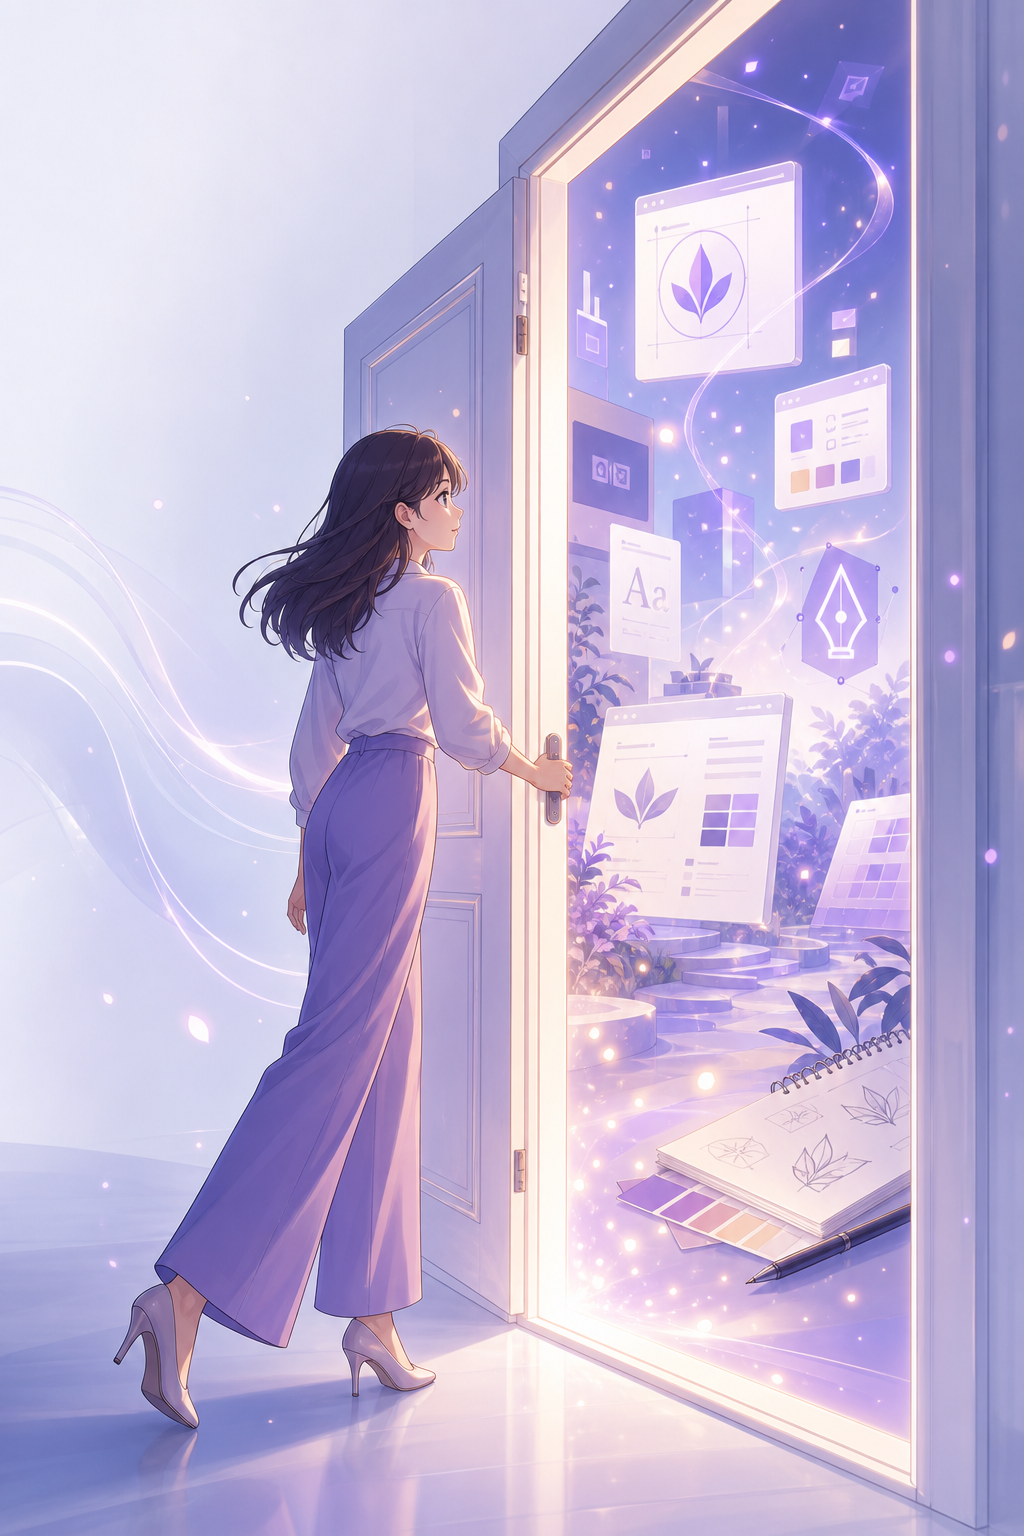
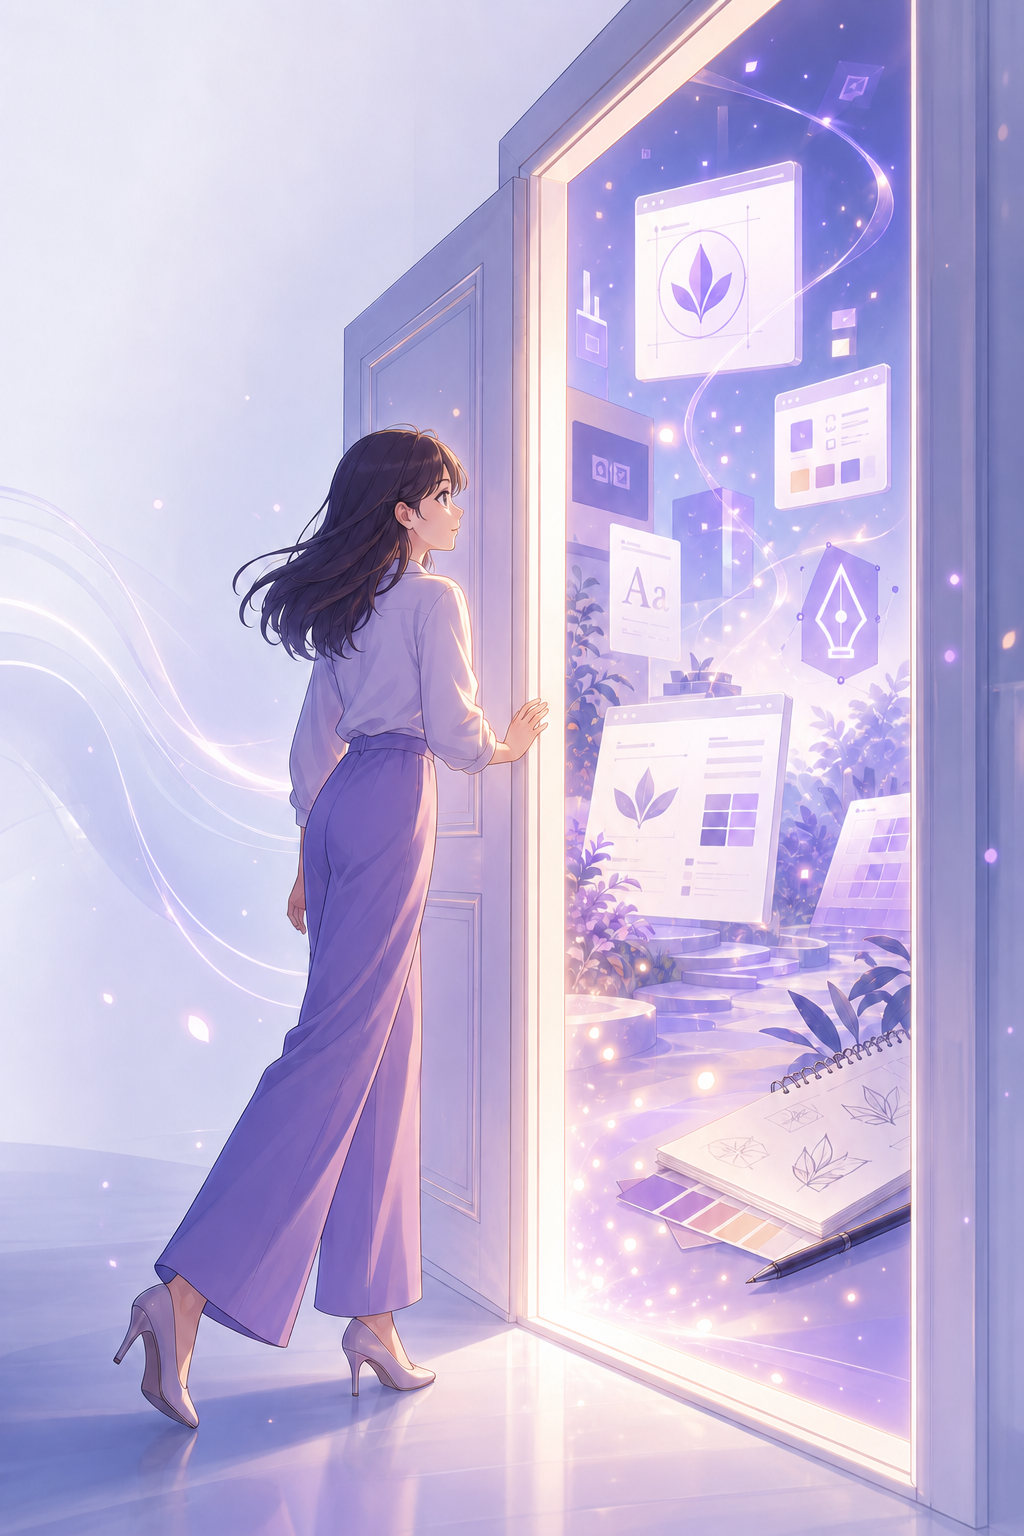
Add files via upload
Update hero image and improve menu animations

diff --git a/styles.css b/styles.css
@@ -29,6 +29,8 @@ body {
   font-family: Tajawal, Inter, system-ui, -apple-system, BlinkMacSystemFont, "Segoe UI", sans-serif;
   letter-spacing: 0;
   overflow-x: hidden;
+  -webkit-font-smoothing: antialiased;
+  text-rendering: optimizeLegibility;
 }
 
 html[lang="en"] body {
@@ -37,6 +39,14 @@ html[lang="en"] body {
 
 body.menu-open {
   overflow: hidden;
+}
+
+body.menu-open::before {
+  content: "";
+  position: fixed;
+  inset: 0;
+  z-index: 18;
+  background: rgba(11, 42, 85, 0.08);
 }
 
 a {
@@ -108,7 +118,9 @@ textarea {
   align-items: center;
   gap: 26px;
   border-bottom: 1px solid var(--line);
-  transition: 0.25s ease;
+  transform: translateZ(0);
+  transition: padding 0.25s ease, border-color 0.25s ease, border-radius 0.25s ease, background-color 0.25s ease, box-shadow 0.25s ease;
+  will-change: padding, box-shadow;
 }
 
 .site-header.is-scrolled .navbar {
@@ -381,7 +393,9 @@ h1 {
   min-height: 520px;
   object-fit: cover;
   object-position: center;
-  transform: scale(1.02);
+  backface-visibility: hidden;
+  transform: translate3d(0, 0, 0) scale(1.02);
+  will-change: transform;
   animation: soft-rise 5.5s ease-in-out infinite alternate;
 }
 
@@ -1260,13 +1274,16 @@ h1 {
 
 .reveal {
   opacity: 0;
-  transform: translateY(24px);
-  transition: opacity 0.7s ease, transform 0.7s ease;
+  backface-visibility: hidden;
+  transform: translate3d(0, 18px, 0);
+  transition: opacity 0.55s cubic-bezier(0.22, 1, 0.36, 1), transform 0.55s cubic-bezier(0.22, 1, 0.36, 1);
+  will-change: opacity, transform;
 }
 
 .reveal.is-visible {
   opacity: 1;
-  transform: translateY(0);
+  transform: translate3d(0, 0, 0);
+  will-change: auto;
 }
 
 @keyframes intro-out {
@@ -1286,8 +1303,8 @@ h1 {
 }
 
 @keyframes soft-rise {
-  from { transform: scale(1.02) translateY(0); }
-  to { transform: scale(1.055) translateY(-10px); }
+  from { transform: translate3d(0, 0, 0) scale(1.02); }
+  to { transform: translate3d(0, -8px, 0) scale(1.04); }
 }
 
 @media (max-width: 1120px) {
@@ -1303,6 +1320,7 @@ h1 {
   .nav-panel,
   .nav-actions {
     position: fixed;
+    z-index: 30;
     left: 4vw;
     right: 4vw;
     display: none;
@@ -1459,6 +1477,24 @@ h1 {
 
   .choice-art img {
     min-height: 320px;
+    animation: none;
+    transform: translate3d(0, 0, 0) scale(1.01);
+  }
+
+  .site-header.is-scrolled .navbar,
+  .nav-panel,
+  .nav-actions,
+  .choice-card,
+  .mini-card,
+  .soft-card,
+  .package-card,
+  .step,
+  .contact-form,
+  .cta-box,
+  .offer-preview,
+  .offer-card-large,
+  .project-link {
+    backdrop-filter: blur(8px);
   }
 
   .package-card.featured {

diff --git a/app.js b/app.js
@@ -231,20 +231,53 @@ const header = document.querySelector(".site-header");
 const setHeaderState = () => {
   header.classList.toggle("is-scrolled", window.scrollY > 10);
 };
+let headerScrollTicking = false;
+
+const requestHeaderState = () => {
+  if (headerScrollTicking) return;
+  headerScrollTicking = true;
+  window.requestAnimationFrame(() => {
+    setHeaderState();
+    headerScrollTicking = false;
+  });
+};
+
 setHeaderState();
-window.addEventListener("scroll", setHeaderState, { passive: true });
+window.addEventListener("scroll", requestHeaderState, { passive: true });
 
 const menuToggle = document.querySelector(".menu-toggle");
-menuToggle.addEventListener("click", () => {
+const closeMenu = () => {
+  document.body.classList.remove("menu-open");
+  menuToggle.setAttribute("aria-expanded", "false");
+};
+
+menuToggle.addEventListener("click", (event) => {
+  event.stopPropagation();
   const isOpen = document.body.classList.toggle("menu-open");
   menuToggle.setAttribute("aria-expanded", String(isOpen));
 });
 
 document.querySelectorAll(".nav-panel a, .nav-actions a").forEach((link) => {
-  link.addEventListener("click", () => {
-    document.body.classList.remove("menu-open");
-    menuToggle.setAttribute("aria-expanded", "false");
-  });
+  link.addEventListener("click", closeMenu);
+});
+
+document.addEventListener("pointerdown", (event) => {
+  if (!document.body.classList.contains("menu-open")) return;
+  const target = event.target;
+  if (!(target instanceof Element)) return;
+
+  const clickedInsideMenu =
+    target.closest(".nav-panel") || target.closest(".nav-actions") || target.closest(".menu-toggle");
+
+  if (!clickedInsideMenu) {
+    closeMenu();
+  }
+}, true);
+
+document.addEventListener("keydown", (event) => {
+  if (event.key === "Escape" && document.body.classList.contains("menu-open")) {
+    closeMenu();
+  }
 });
 
 const observer = new IntersectionObserver(
